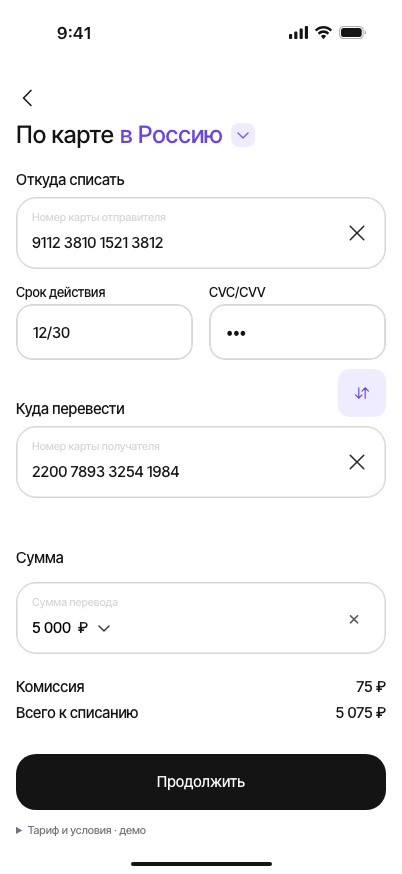
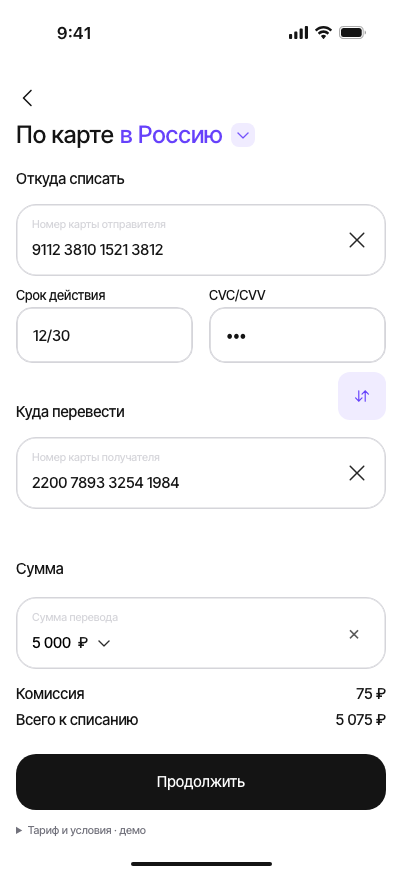
Align filled guest transfer spacing with Figma

diff --git a/src/styles.css b/src/styles.css
@@ -1402,9 +1402,9 @@ body:has(.guest-direction-sheet[open]) { overflow:hidden; }
 .guest-inline-source:not(.guest-international-transfer) .destination-section { margin-top:40px; }
 .guest-inline-source:not(.guest-international-transfer) .inline-amount h2 { margin-bottom:12px; }
 .guest-inline-source:not(.guest-international-transfer).has-quote .source-section>h2,
-.guest-inline-source:not(.guest-international-transfer).has-quote .destination-section>h2 { margin-bottom:8px; }
-.guest-inline-source:not(.guest-international-transfer).has-quote .transfer-footer { padding-top:24px; }
-.guest-inline-source:not(.guest-international-transfer).has-quote .recipient-next { margin-top:32px; }
+.guest-inline-source:not(.guest-international-transfer).has-quote .destination-section>h2 { margin-bottom:16px; }
+.guest-inline-source:not(.guest-international-transfer).has-quote .transfer-footer { padding-top:16px; }
+.guest-inline-source:not(.guest-international-transfer).has-quote .recipient-next { margin-top:25px; }
 .guest-swap-cards { position:absolute; z-index:2; right:0; top:calc(100% + 1px); display:flex; align-items:center; justify-content:center; width:48px; height:48px; padding:0; border-radius:12px; background:#f0ecff; }
 .guest-inline-source.has-quote .guest-swap-cards { top:calc(100% + 9px); }
 .guest-swap-cards:disabled { opacity:1; cursor:default; }
@@ -1413,16 +1413,16 @@ body:has(.guest-direction-sheet[open]) { overflow:hidden; }
 .guest-swap-icon img { display:block; }
 .guest-international-transfer .guest-swap-cards { display:none; }
 
-/* Empty domestic form — current Figma 138:5534 (filled layout stays 171:5848). */
-.guest-inline-source:not(.guest-international-transfer):not(.has-quote) .source-section { padding-top:7px; }
-.guest-inline-source:not(.guest-international-transfer):not(.has-quote) .source-section>h2,
-.guest-inline-source:not(.guest-international-transfer):not(.has-quote) .destination-section>h2 { margin-bottom:16px; }
-.guest-inline-source:not(.guest-international-transfer):not(.has-quote) .card-details-row { margin-top:12px; }
-.guest-inline-source:not(.guest-international-transfer):not(.has-quote) .destination-section { margin-top:40px; }
-.guest-inline-source:not(.guest-international-transfer):not(.has-quote) .inline-amount h2 { margin-bottom:16px; }
-.guest-inline-source:not(.guest-international-transfer):not(.has-quote) .guest-swap-cards { top:calc(100% + 9px); }
-.guest-inline-source:not(.guest-international-transfer):not(.has-quote) .demo-card-suggestion { top:114px; }
-.guest-inline-source:not(.guest-international-transfer):not(.has-quote) .source-section>.demo-card-suggestion { top:121px; }
+/* Domestic empty and filled forms — Figma 138:5534 and 171:5848. */
+.guest-inline-source:not(.guest-international-transfer) .source-section { padding-top:7px; }
+.guest-inline-source:not(.guest-international-transfer) .source-section>h2,
+.guest-inline-source:not(.guest-international-transfer) .destination-section>h2 { margin-bottom:16px; }
+.guest-inline-source:not(.guest-international-transfer) .card-details-row { margin-top:12px; }
+.guest-inline-source:not(.guest-international-transfer) .destination-section { margin-top:40px; }
+.guest-inline-source:not(.guest-international-transfer) .inline-amount h2 { margin-bottom:16px; }
+.guest-inline-source:not(.guest-international-transfer) .guest-swap-cards { top:calc(100% + 9px); }
+.guest-inline-source:not(.guest-international-transfer) .demo-card-suggestion { top:114px; }
+.guest-inline-source:not(.guest-international-transfer) .source-section>.demo-card-suggestion { top:121px; }
 
 /* Fractional Figma strokes must not be rounded down by CSS border rasterization. */
 .guest-inline-source .destination-field,
@@ -1444,3 +1444,5 @@ body:has(.guest-direction-sheet[open]) { overflow:hidden; }
 .guest-inline-source .destination-field:has(input[aria-invalid=true]),
 .guest-inline-source .card-details-row input[aria-invalid=true] { --guest-field-stroke:#ff1524; }
 .guest-transfer .guest-transfer-title>span { gap:6.33px; }
+
+.guest-inline-source:not(.guest-international-transfer).has-quote .inline-amount h2 { margin-bottom:16px; }
